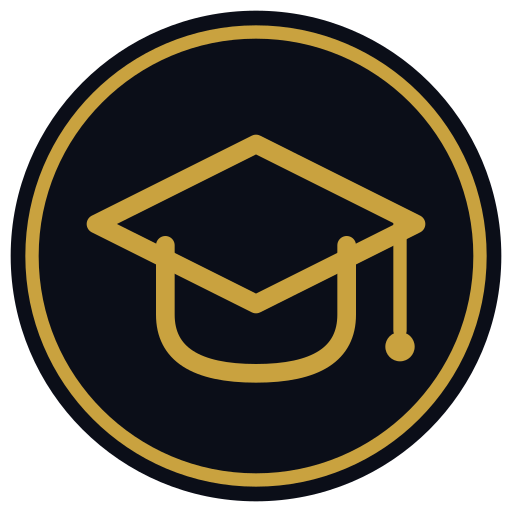
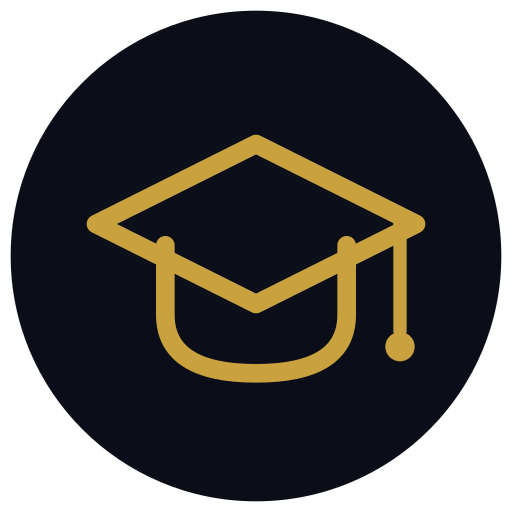
Add files via upload

Changed region(s): [[0.0312, 0.0312, 0.9688, 0.9688]]

diff --git a/sw.js b/sw.js
@@ -1,4 +1,4 @@
-const CACHE_NAME = 'insurance-course-v4';
+const CACHE_NAME = 'insurance-course-v5';
 const urlsToCache = [
   './',
   './index.html',